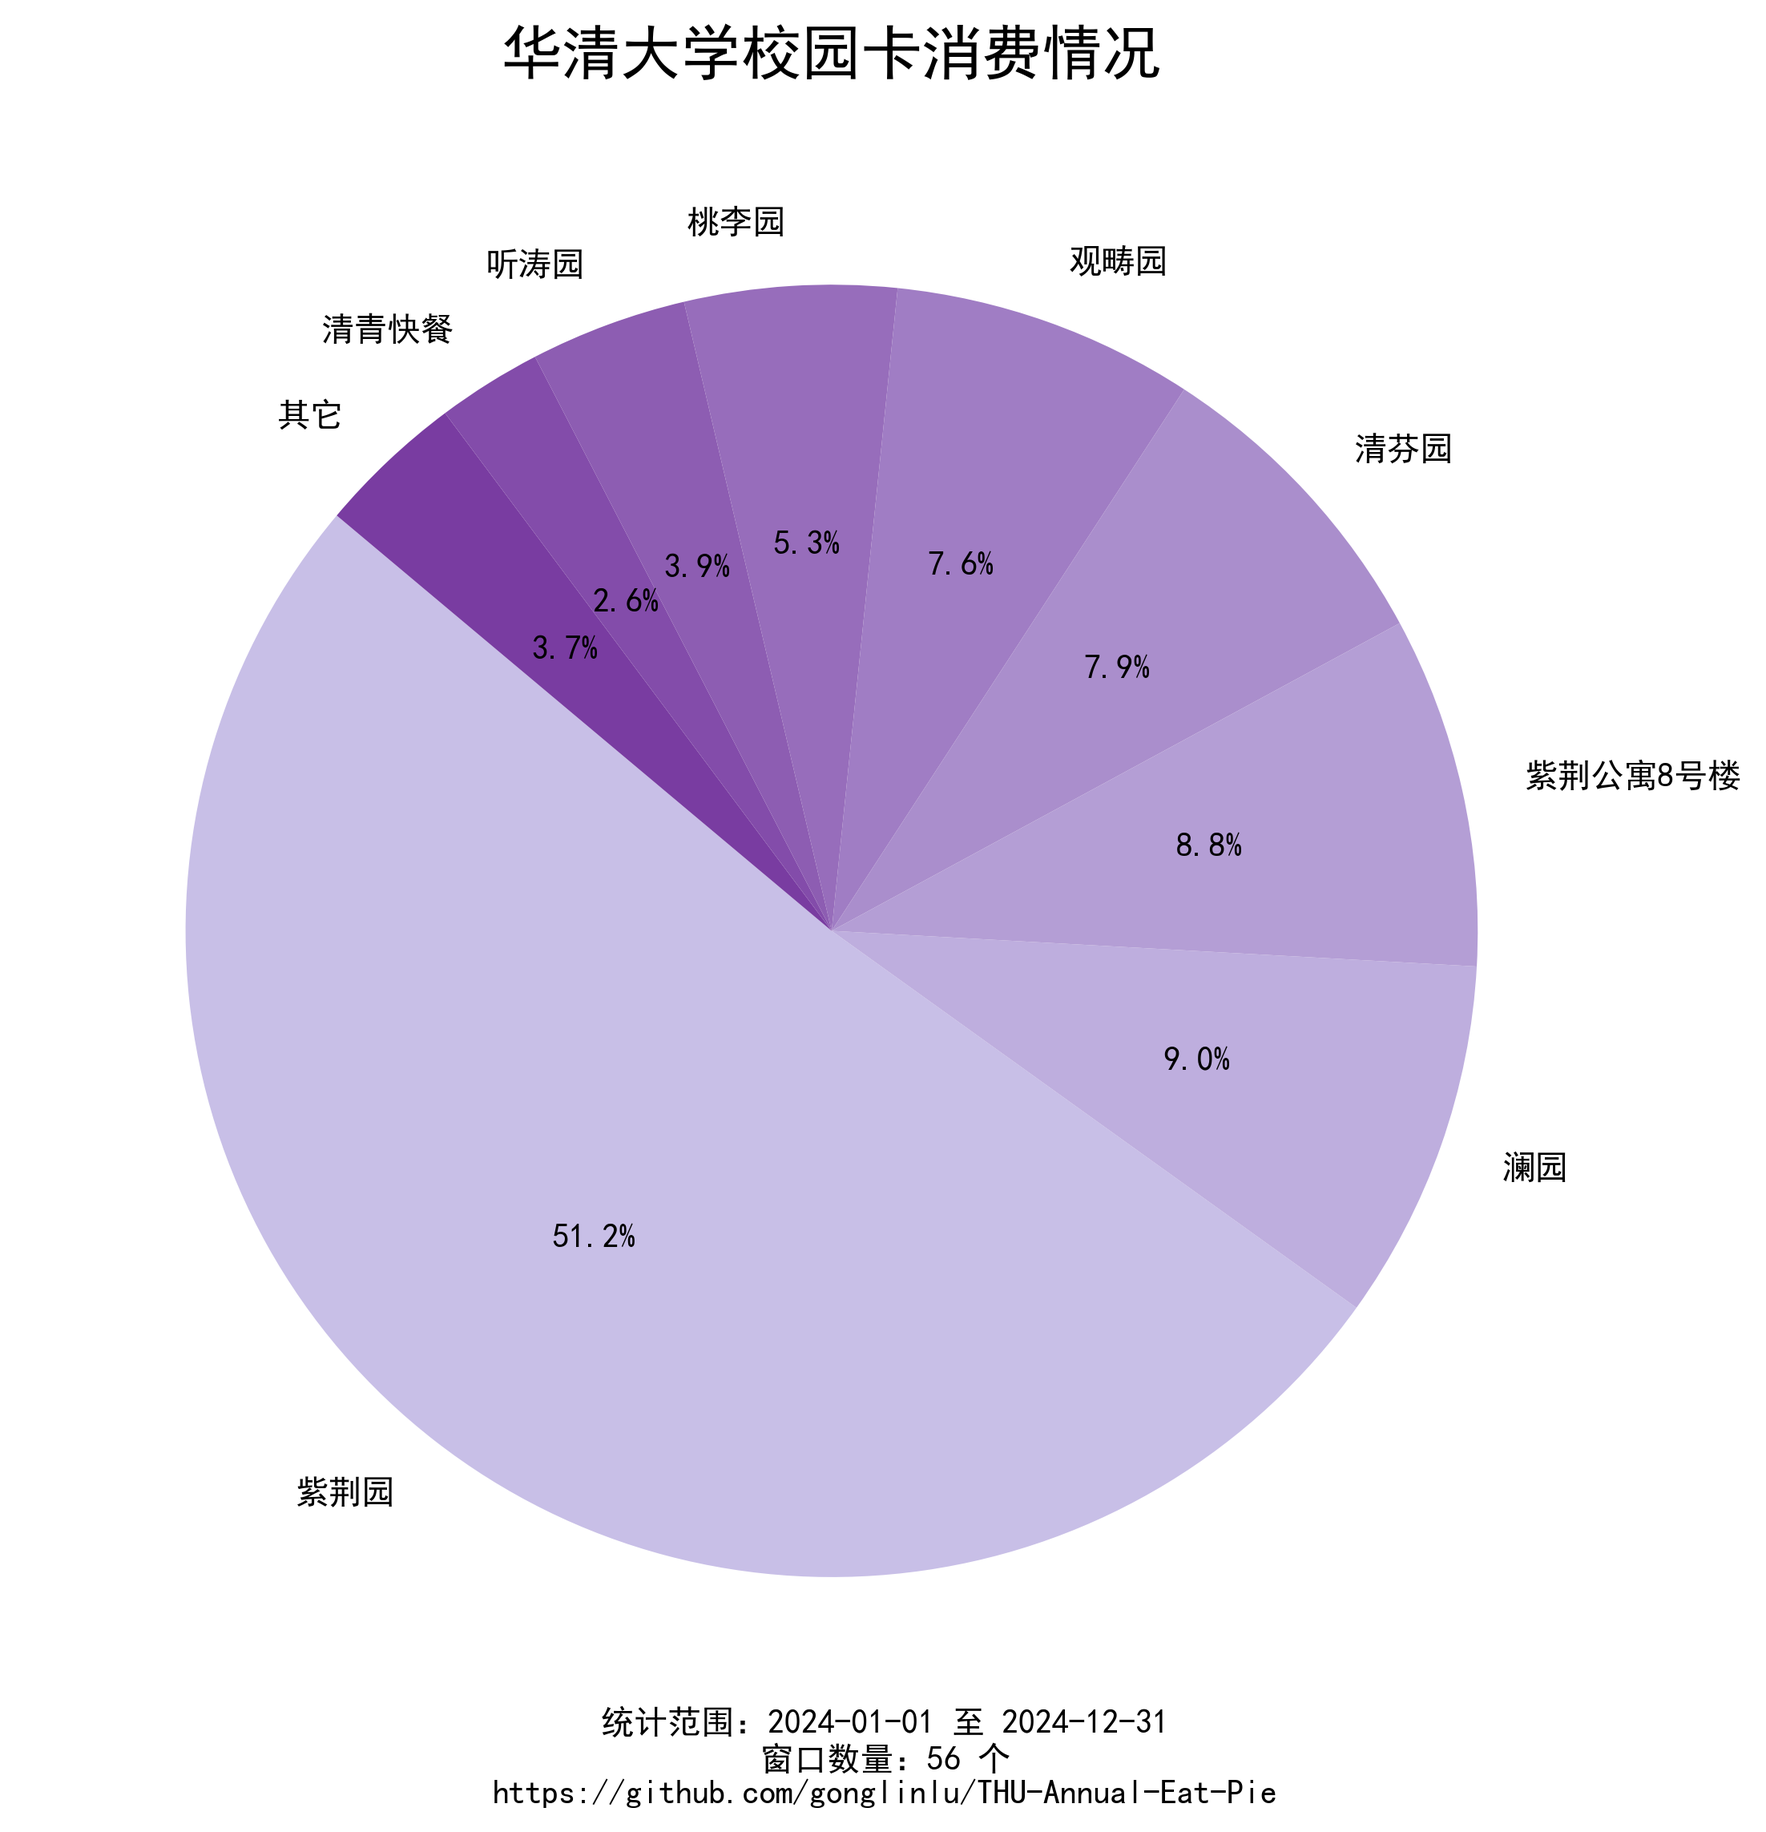
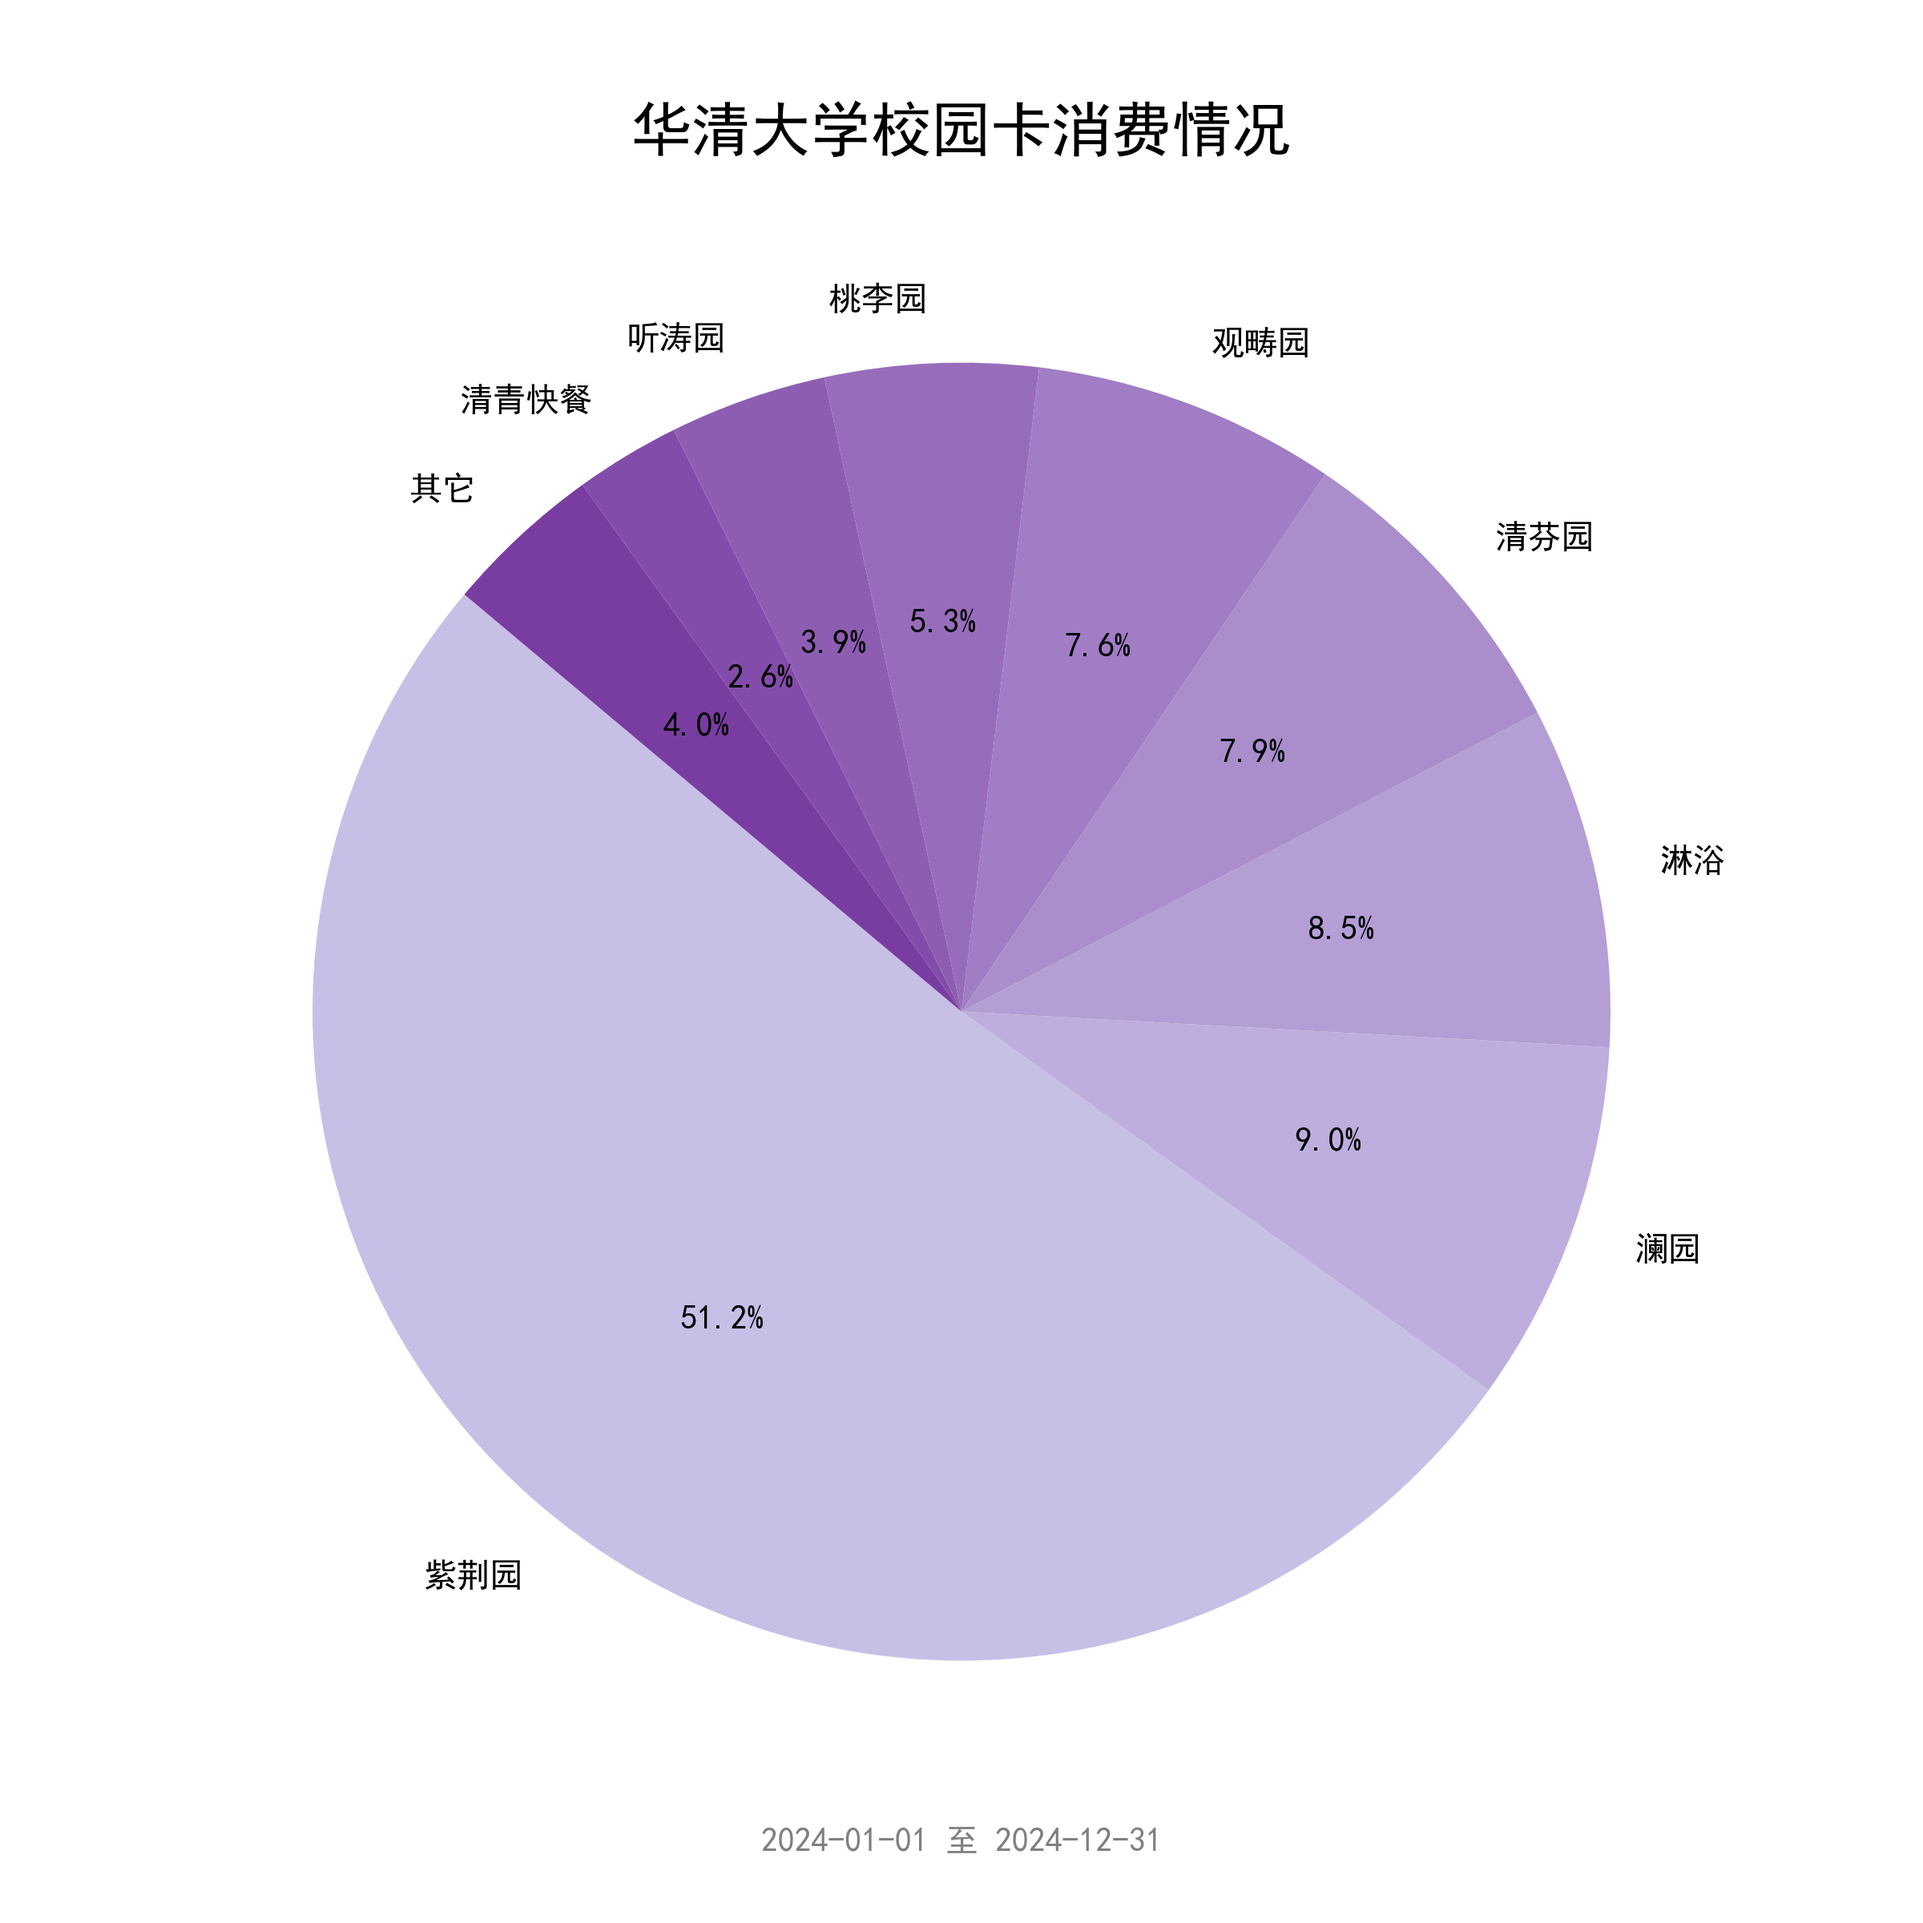
merge

diff --git a/main.py b/main.py
@@ -89,7 +89,9 @@ if __name__ == "__main__":
     # 按照大类分组并计算总金额
     category_data = {}
     for key, value in all_data.items():
-        category = key.split('_')[0]
+        if '淋浴' in key: # 淋浴类别合并
+            key = '淋浴'
+        category = key.split('_')[0] # 以“_”分隔
         if category in category_data:
             category_data[category] += value
         else:
@@ -128,14 +130,14 @@ if __name__ == "__main__":
     # 在图表底部添加统计信息
     fig = plt.gcf()  # 获取当前图表对象
     
-    additonal_text = f'统计范围：{start_date} 至 {end_date}\n窗口数量：{len(all_data)} 个\n'
+    additonal_text = f'{start_date} 至 {end_date}\n'
+    # additonal_text += f'消费窗口：{len(all_data)} 个\n'
     if show_num:
         additonal_text += f'总金额：{sum_data} 元\n'
-    additonal_text += 'https://github.com/gonglinlu/THU-Annual-Eat-Pie'
     
-    fig.text(0.5, 0.02, additonal_text, horizontalalignment='center', fontsize=10)
+    fig.text(0.5, 0.02, additonal_text, horizontalalignment='center', fontsize=10, color='gray', fontstyle='italic')
 
     plt.tight_layout(pad=3)
 
     # 保存图片
-    plt.savefig('result_pie.png', dpi=300, bbox_inches='tight')
+    plt.savefig('result_pie.png', dpi=300)
